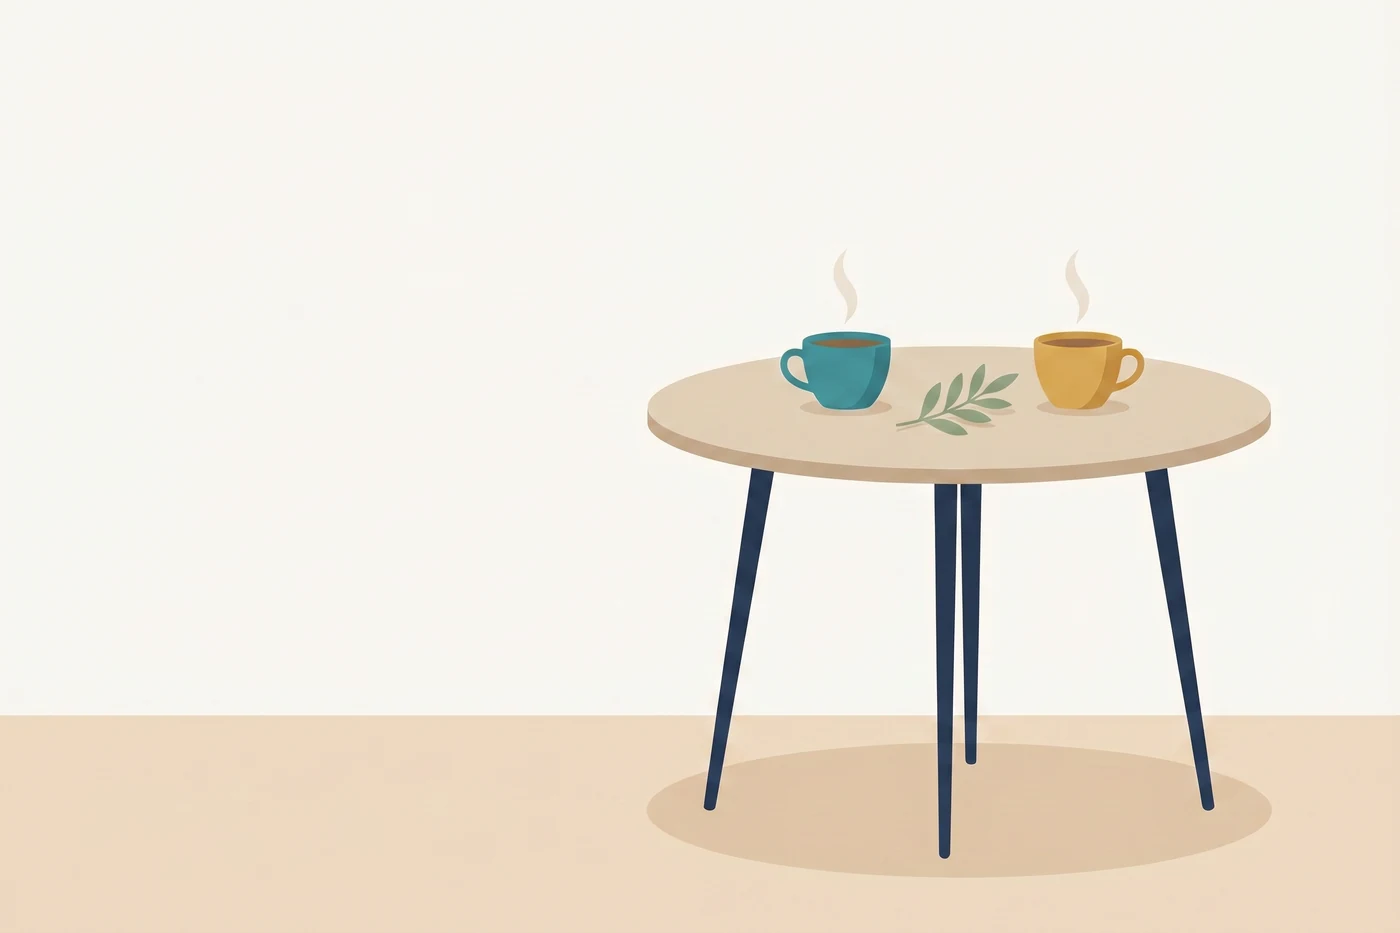
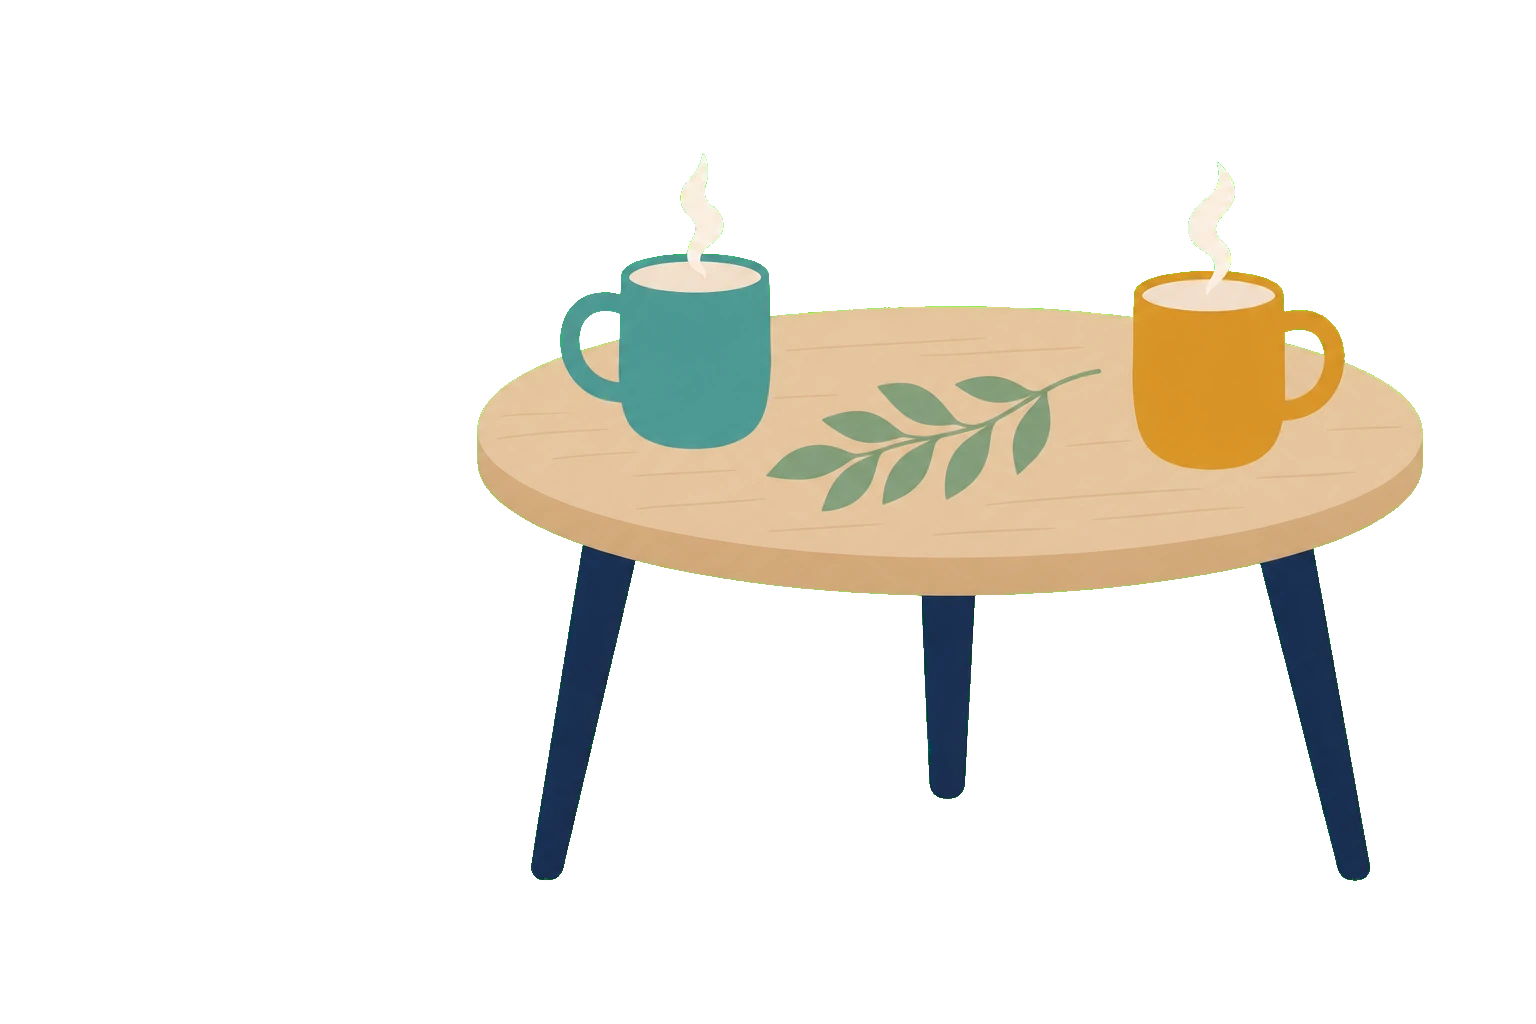
feat(visuals): transparente Hero-Illustrationen + Card-Rahmen entfernt
- Werkzeuge-, Home- und Module-Hero-Bilder mit transparentem Hintergrund (PNG→WebP)
- Border und weissen Hintergrund von .home-page .home-hero-visual entfernt
- Border und weissen Hintergrund von body.module-overview-page .module-overview-hero-visual entfernt
- Border und weissen Hintergrund von .werkzeuge-page .werkzeuge-hero-visual entfernt
- Illustrationen fügen sich jetzt nahtlos in den jeweiligen Gradient-Hintergrund ein

diff --git a/src/css/shared.css b/src/css/shared.css
@@ -2548,6 +2548,7 @@ body.impressum-page .info-box strong {
 .module-overview-hero-visual {
   border-radius: var(--radius-lg);
   overflow: hidden;
+  /* box-shadow nur für module-overview, nicht für werkzeuge (wird unten überschrieben) */
   box-shadow: var(--card-shadow-hover);
   position: relative;
   z-index: 1;
@@ -2690,9 +2691,10 @@ body.impressum-page .info-box strong {
 }
 
 .home-page .home-hero-visual {
-  border: 1px solid rgba(45,40,35,0.08);
-  background: rgba(255,255,255,0.72);
-  box-shadow: var(--shadow-atmosphere);
+  /* Nahtlose Integration: kein Border, kein weisser Hintergrund */
+  border: none;
+  background: transparent;
+  box-shadow: none;
 }
 
 .home-page .home-hero-paths {
@@ -2852,9 +2854,10 @@ body.impressum-page .info-box strong {
 }
 
 .werkzeuge-page .werkzeuge-hero-visual {
-  border: 1px solid rgba(45,40,35,0.08);
-  background: rgba(255,255,255,0.76);
-  box-shadow: var(--shadow-atmosphere);
+  /* Nahtlose Integration: kein Border, Hintergrund exakt wie --bg der Seite */
+  border: none;
+  background: var(--bg);
+  box-shadow: none;
 }
 
 .werkzeuge-page .tool-guide {
@@ -3218,9 +3221,10 @@ body.module-overview-page .overview-lead {
 }
 
 body.module-overview-page .module-overview-hero-visual {
-  border: 1px solid rgba(45,40,35,0.08);
-  background: rgba(255,255,255,0.76);
-  box-shadow: var(--shadow-atmosphere);
+  /* Nahtlose Integration: kein Border, kein weisser Hintergrund */
+  border: none;
+  background: transparent;
+  box-shadow: none;
 }
 
 body.module-overview-page .overview-intro {
